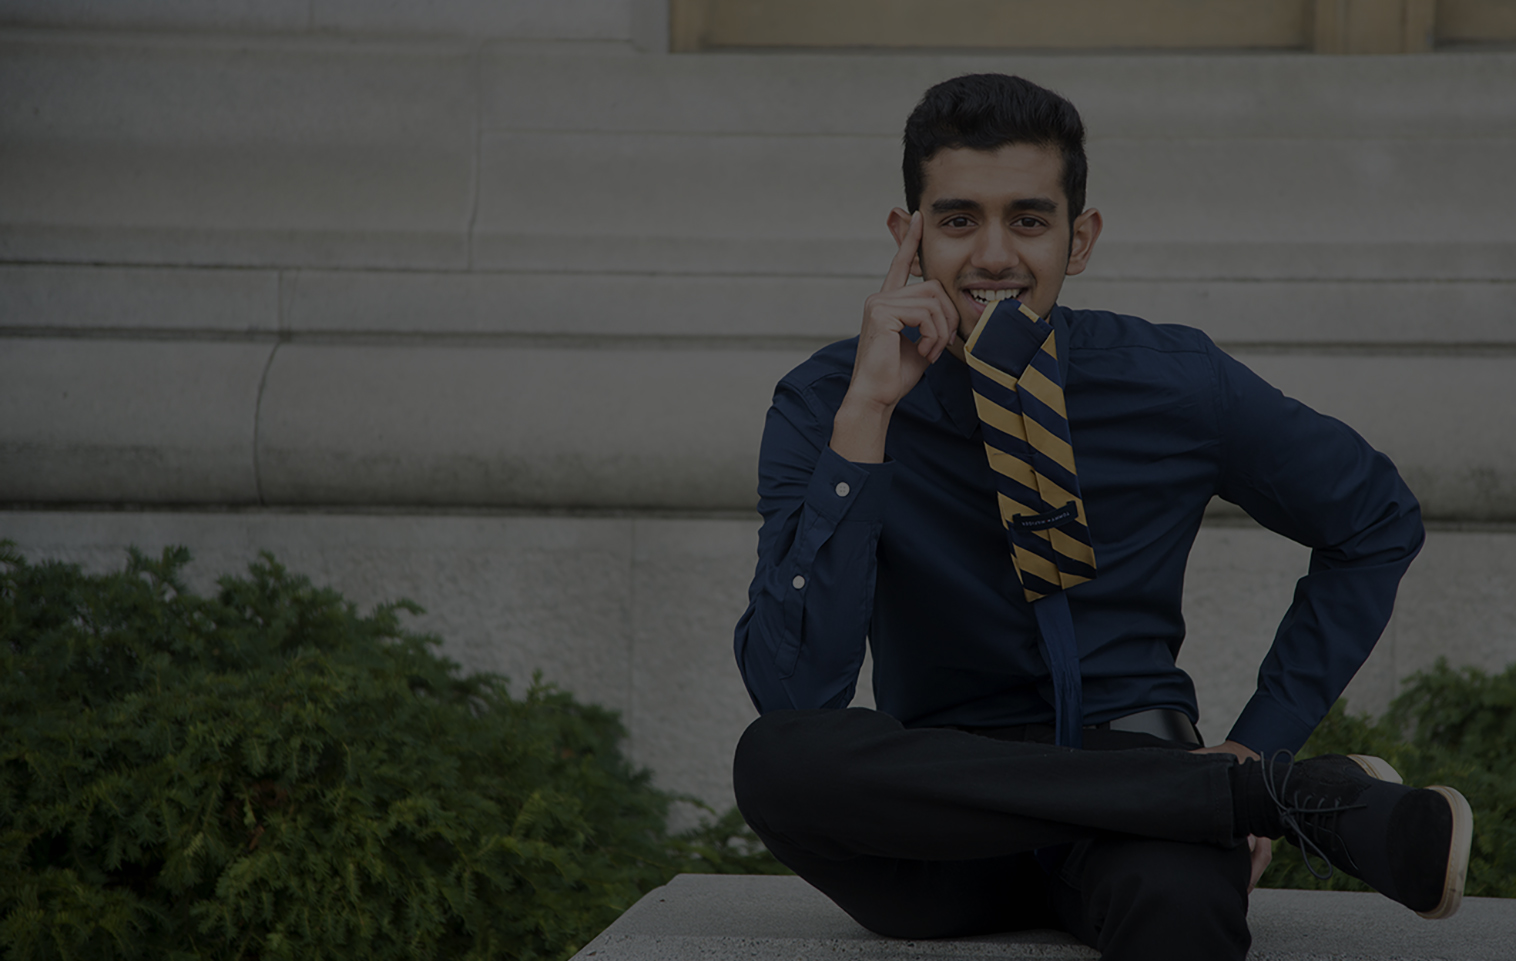
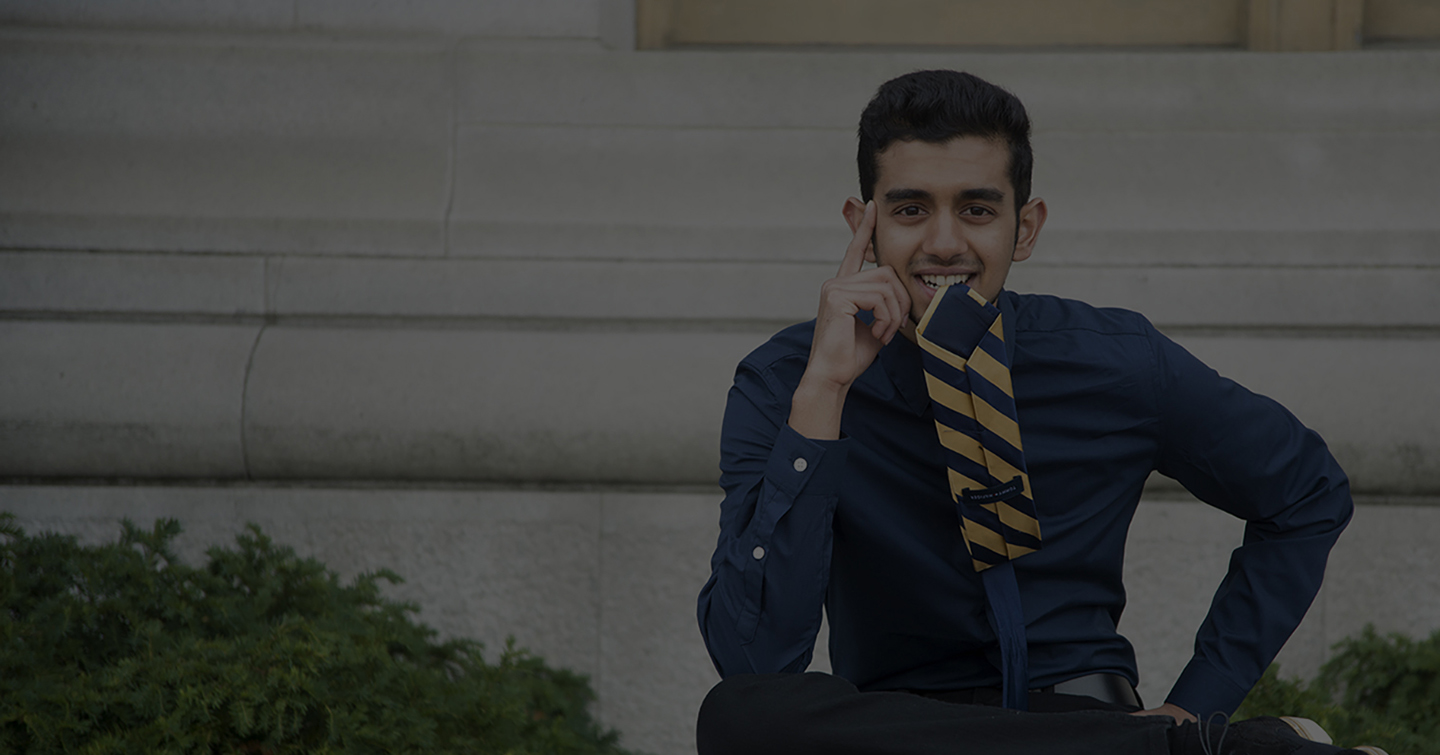
made background images on Home and Skills responsive, added media queries to Home, About

diff --git a/src/components/About.jsx b/src/components/About.jsx
@@ -42,7 +42,7 @@ export default class About extends React.Component {
               <span className={css(styles.highlighted)}>Whereabouts</span>
               <br />
               - Berkeley campus: searching for hidden areas and secrets <br />
-              - Sacks Coffee: filling up on my weekly caffeine and studying{' '}
+              - Sacks Coffee: filling up on my weekly caffeine and studying
               <br />
               - My Kitchen: prepping meals for the week or baking goodies <br />
               - Memorial Stadium Gym: getting swole every day before class
@@ -51,7 +51,7 @@ export default class About extends React.Component {
               <span className={css(styles.highlighted)}>Quirks</span>
               <br />
               - Strategizes how to climb every statue he sees <br />
-              - Takes pictures of food before eating - "it's for the Yelp"{' '}
+              - Takes pictures of food before eating - "it's for the Yelp"
               <br />
               - Considers Medium and Quora his favorite social media <br />
               - Feeds off the energy of ideas to make the world a better place
@@ -84,7 +84,10 @@ const styles = StyleSheet.create({
     flexDirection: 'row',
     justifyContent: 'center',
     alignItems: 'center',
-    padding: '15px'
+    padding: '15px',
+    '@media(max-width:900px)': {
+      flexDirection: 'column'
+    }
   },
 
   leftContainer: {
@@ -110,7 +113,11 @@ const styles = StyleSheet.create({
     fontSize: '1.25em',
     lineHeight: '1.375em',
     margin: 0,
-    padding: '10px 0'
+    padding: '10px 0',
+    '@media(max-width:600px)': {
+      fontSize: '1em',
+      padding: '10px'
+    }
   },
 
   highlighted: {

diff --git a/src/components/Home.jsx b/src/components/Home.jsx
@@ -9,11 +9,6 @@ export default class Home extends React.Component {
   render() {
     return (
       <div className={css(styles.homeContainer, styles.fadeIn)}>
-        <img
-          src="images/cover copy.jpg"
-          className={css(styles.image)}
-          alt="Me - Rahul Rangnekar"
-        />
         <div className={css(styles.textContainer)}>
           <h1 className={css(styles.name)}>Rahul Rangnekar</h1>
           <h2 className={css(styles.roles)}>
@@ -27,13 +22,14 @@ export default class Home extends React.Component {
 
 const styles = StyleSheet.create({
   homeContainer: {
-    display: 'flex',
-    alignItems: 'center',
-    justifyContent: 'center',
+    background: 'url(images/cover-old.jpg)',
+    backgroundAttachment: 'fixed',
+    backgroundRepeat: 'no-repeat',
+    backgroundSize: 'cover',
     backgroundColor: '#333',
     padding: '0',
     margin: '0',
-    minHeight: '100%',
+    minHeight: 'calc(100vh - 108px)',
     position: 'relative'
   },
 
@@ -50,21 +46,20 @@ const styles = StyleSheet.create({
     letterSpacing: '0.025em',
     textTransform: 'uppercase',
     margin: '0',
-    padding: '5px 0'
+    padding: '5px 0',
+    '@media(max-width:600px)': {
+      fontSize: '3em'
+    }
   },
 
   roles: {
     fontSize: '1.5em',
     fontWeight: '200',
-    margin: 0,
-    padding: '5px'
-  },
-
-  image: {
-    width: 'auto',
-    height: 'auto',
     margin: '0',
-    padding: '0'
+    padding: '5px',
+    '@media(max-width:600px)': {
+      fontSize: '1em'
+    }
   },
 
   fadeIn: {

diff --git a/src/components/Skills.jsx b/src/components/Skills.jsx
@@ -12,7 +12,7 @@ export default class Skills extends React.Component {
   render() {
     return (
       <div className={css(styles.skillsContainer, styles.fadeIn)}>
-        <h2 className={css(styles.header)}> What I'm Good At </h2>
+        <h2 className={css(styles.header)}>My Strengths</h2>
 
         <div className={css(styles.bodyContainer)}>
           <div className={css(styles.container)}>
@@ -128,6 +128,9 @@ export default class Skills extends React.Component {
 const styles = StyleSheet.create({
   skillsContainer: {
     background: 'url(images/beach.jpg)',
+    backgroundAttachment: 'fixed',
+    backgroundRepeat: 'no-repeat',
+    backgroundSize: 'cover',
     display: 'flex',
     flexDirection: 'column',
     alignItems: 'center',

diff --git a/src/components/Footer.jsx b/src/components/Footer.jsx
@@ -32,7 +32,7 @@ export default class Footer extends React.Component {
           to={'https://github.com/rahrang/rahrang.github.io/'}
           target="blank"
         >
-          Source Code
+          GitHub
         </Link>
       </div>
     );
@@ -43,12 +43,13 @@ const styles = StyleSheet.create({
   footerContainer: {
     backgroundColor: '#333',
     color: '#FFF',
+    fontSize: '0.875em',
     display: 'flex',
     flexDirection: 'row',
     alignItems: 'center',
     justifyContent: 'space-between',
     padding: '0 15px',
-    fontSize: '0.875em'
+    textAlign: 'center'
   },
 
   mediaLink: {
